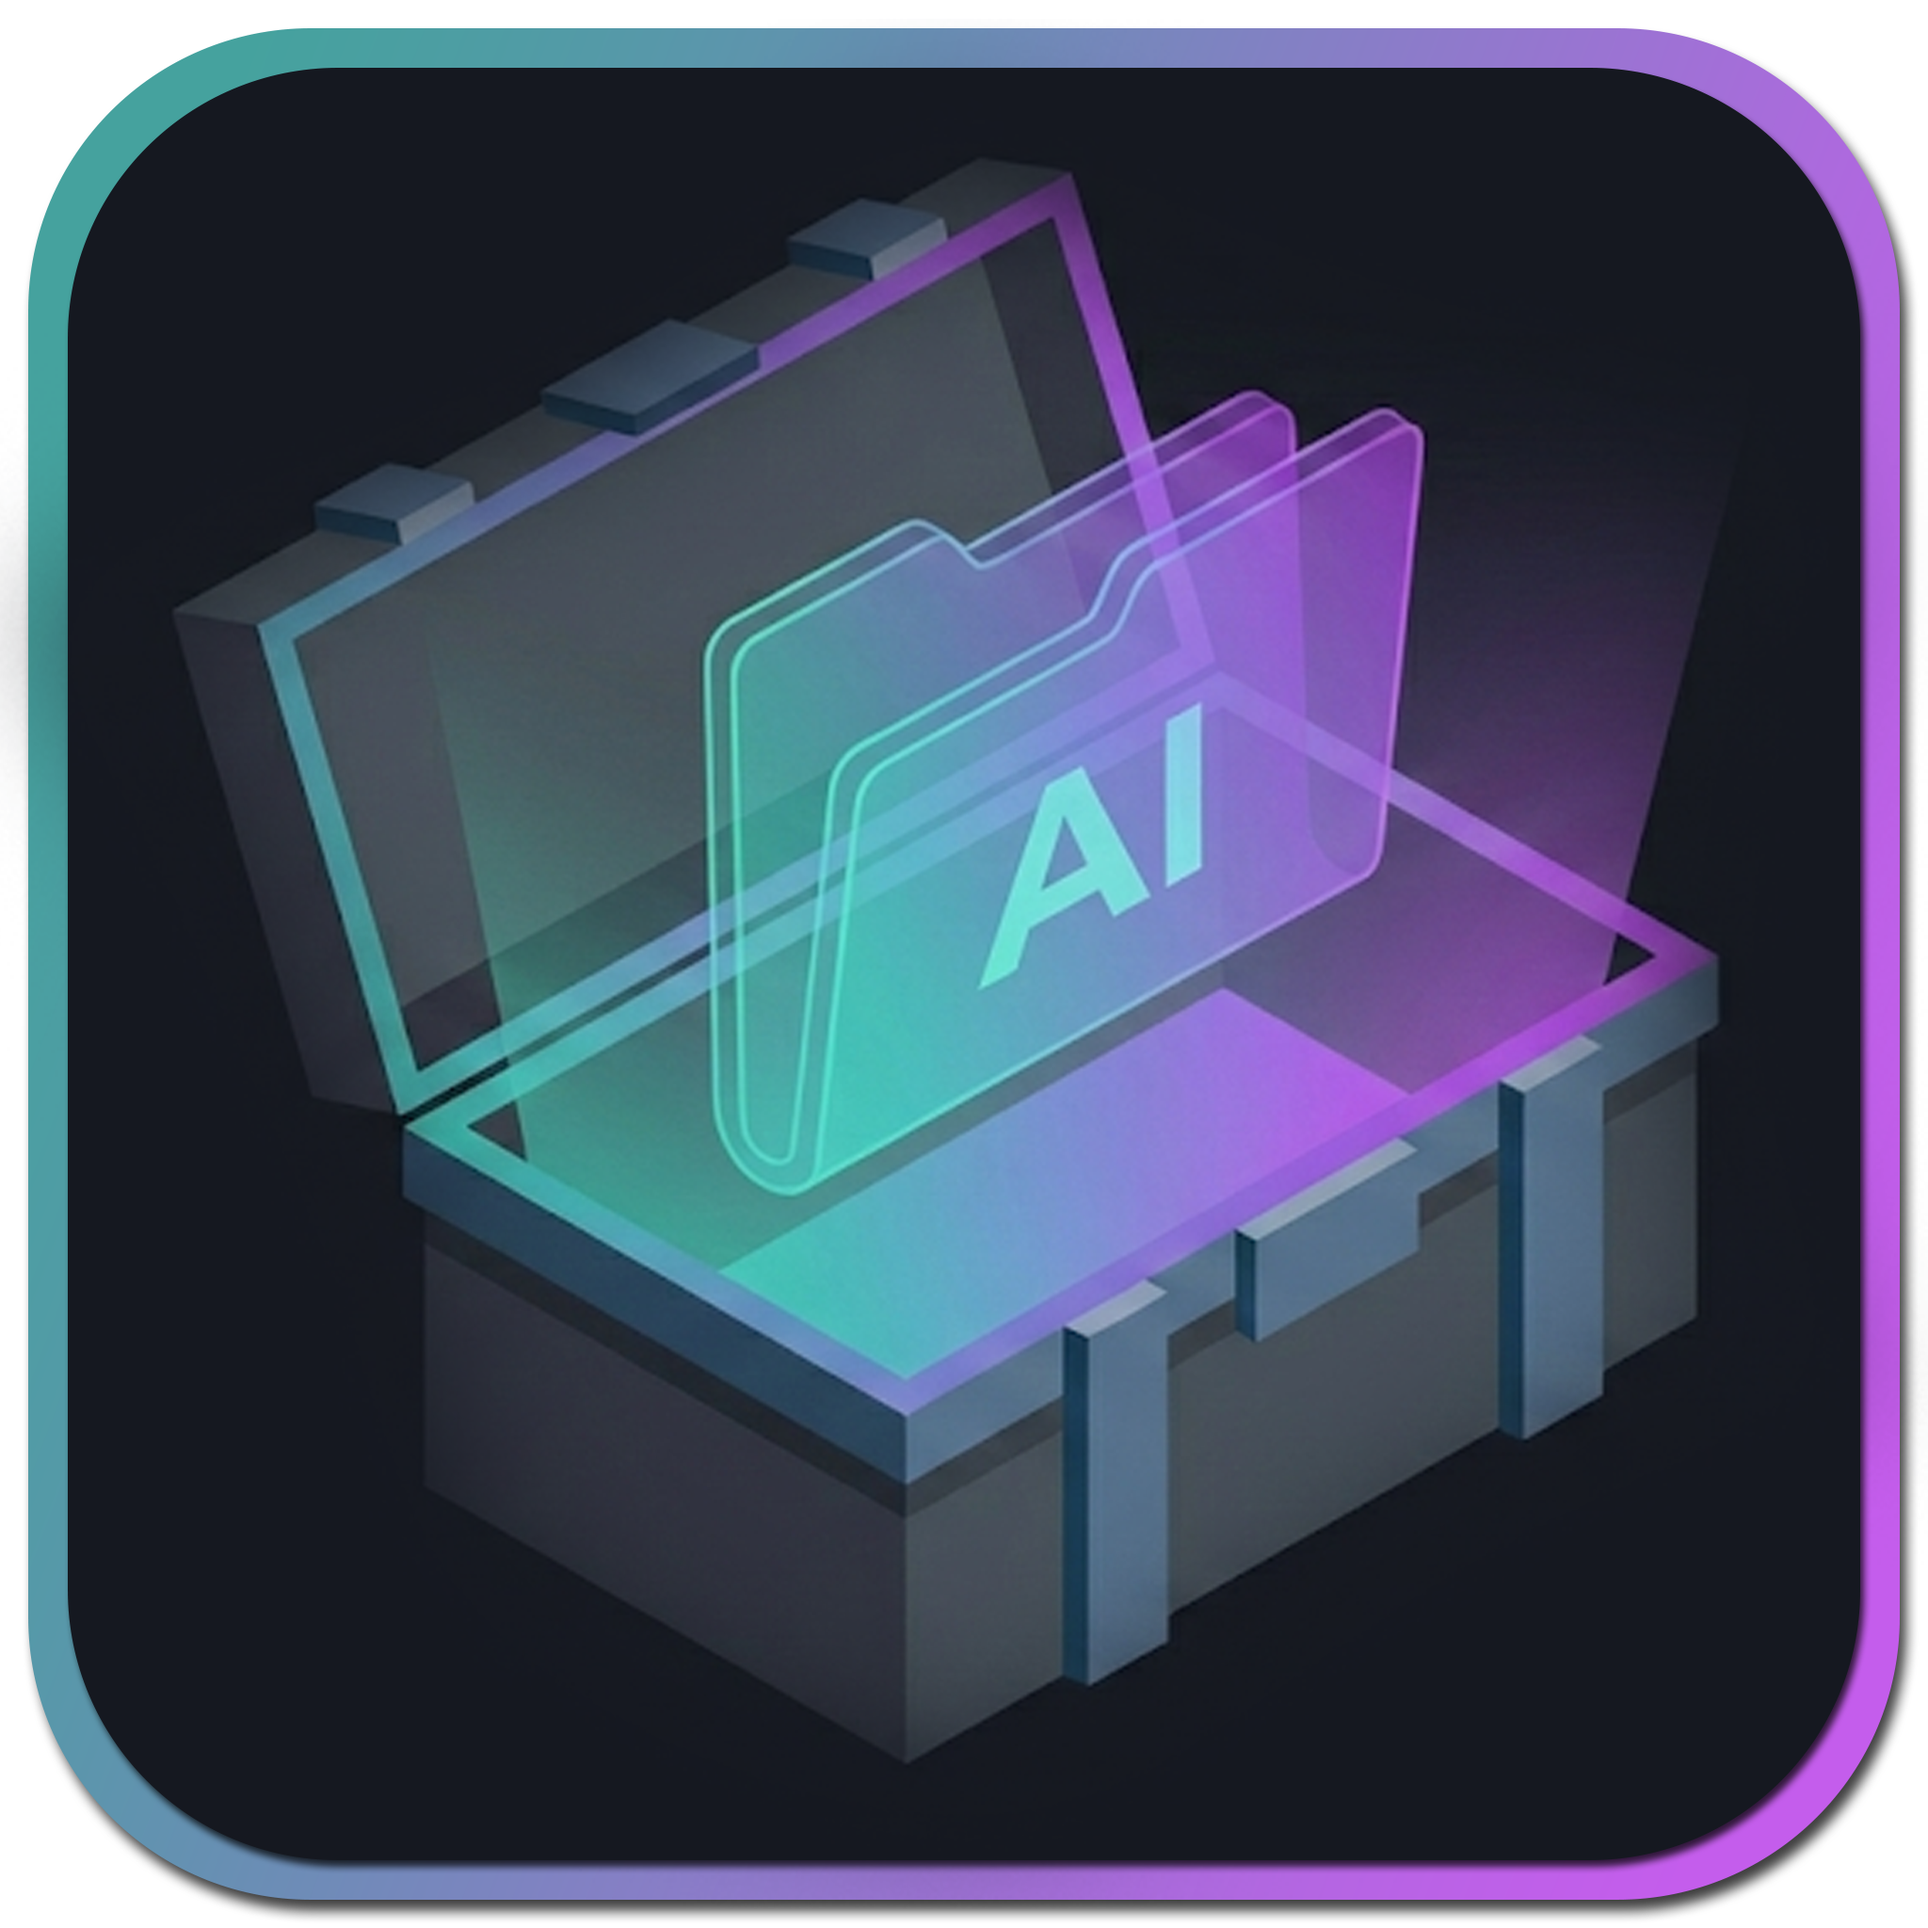
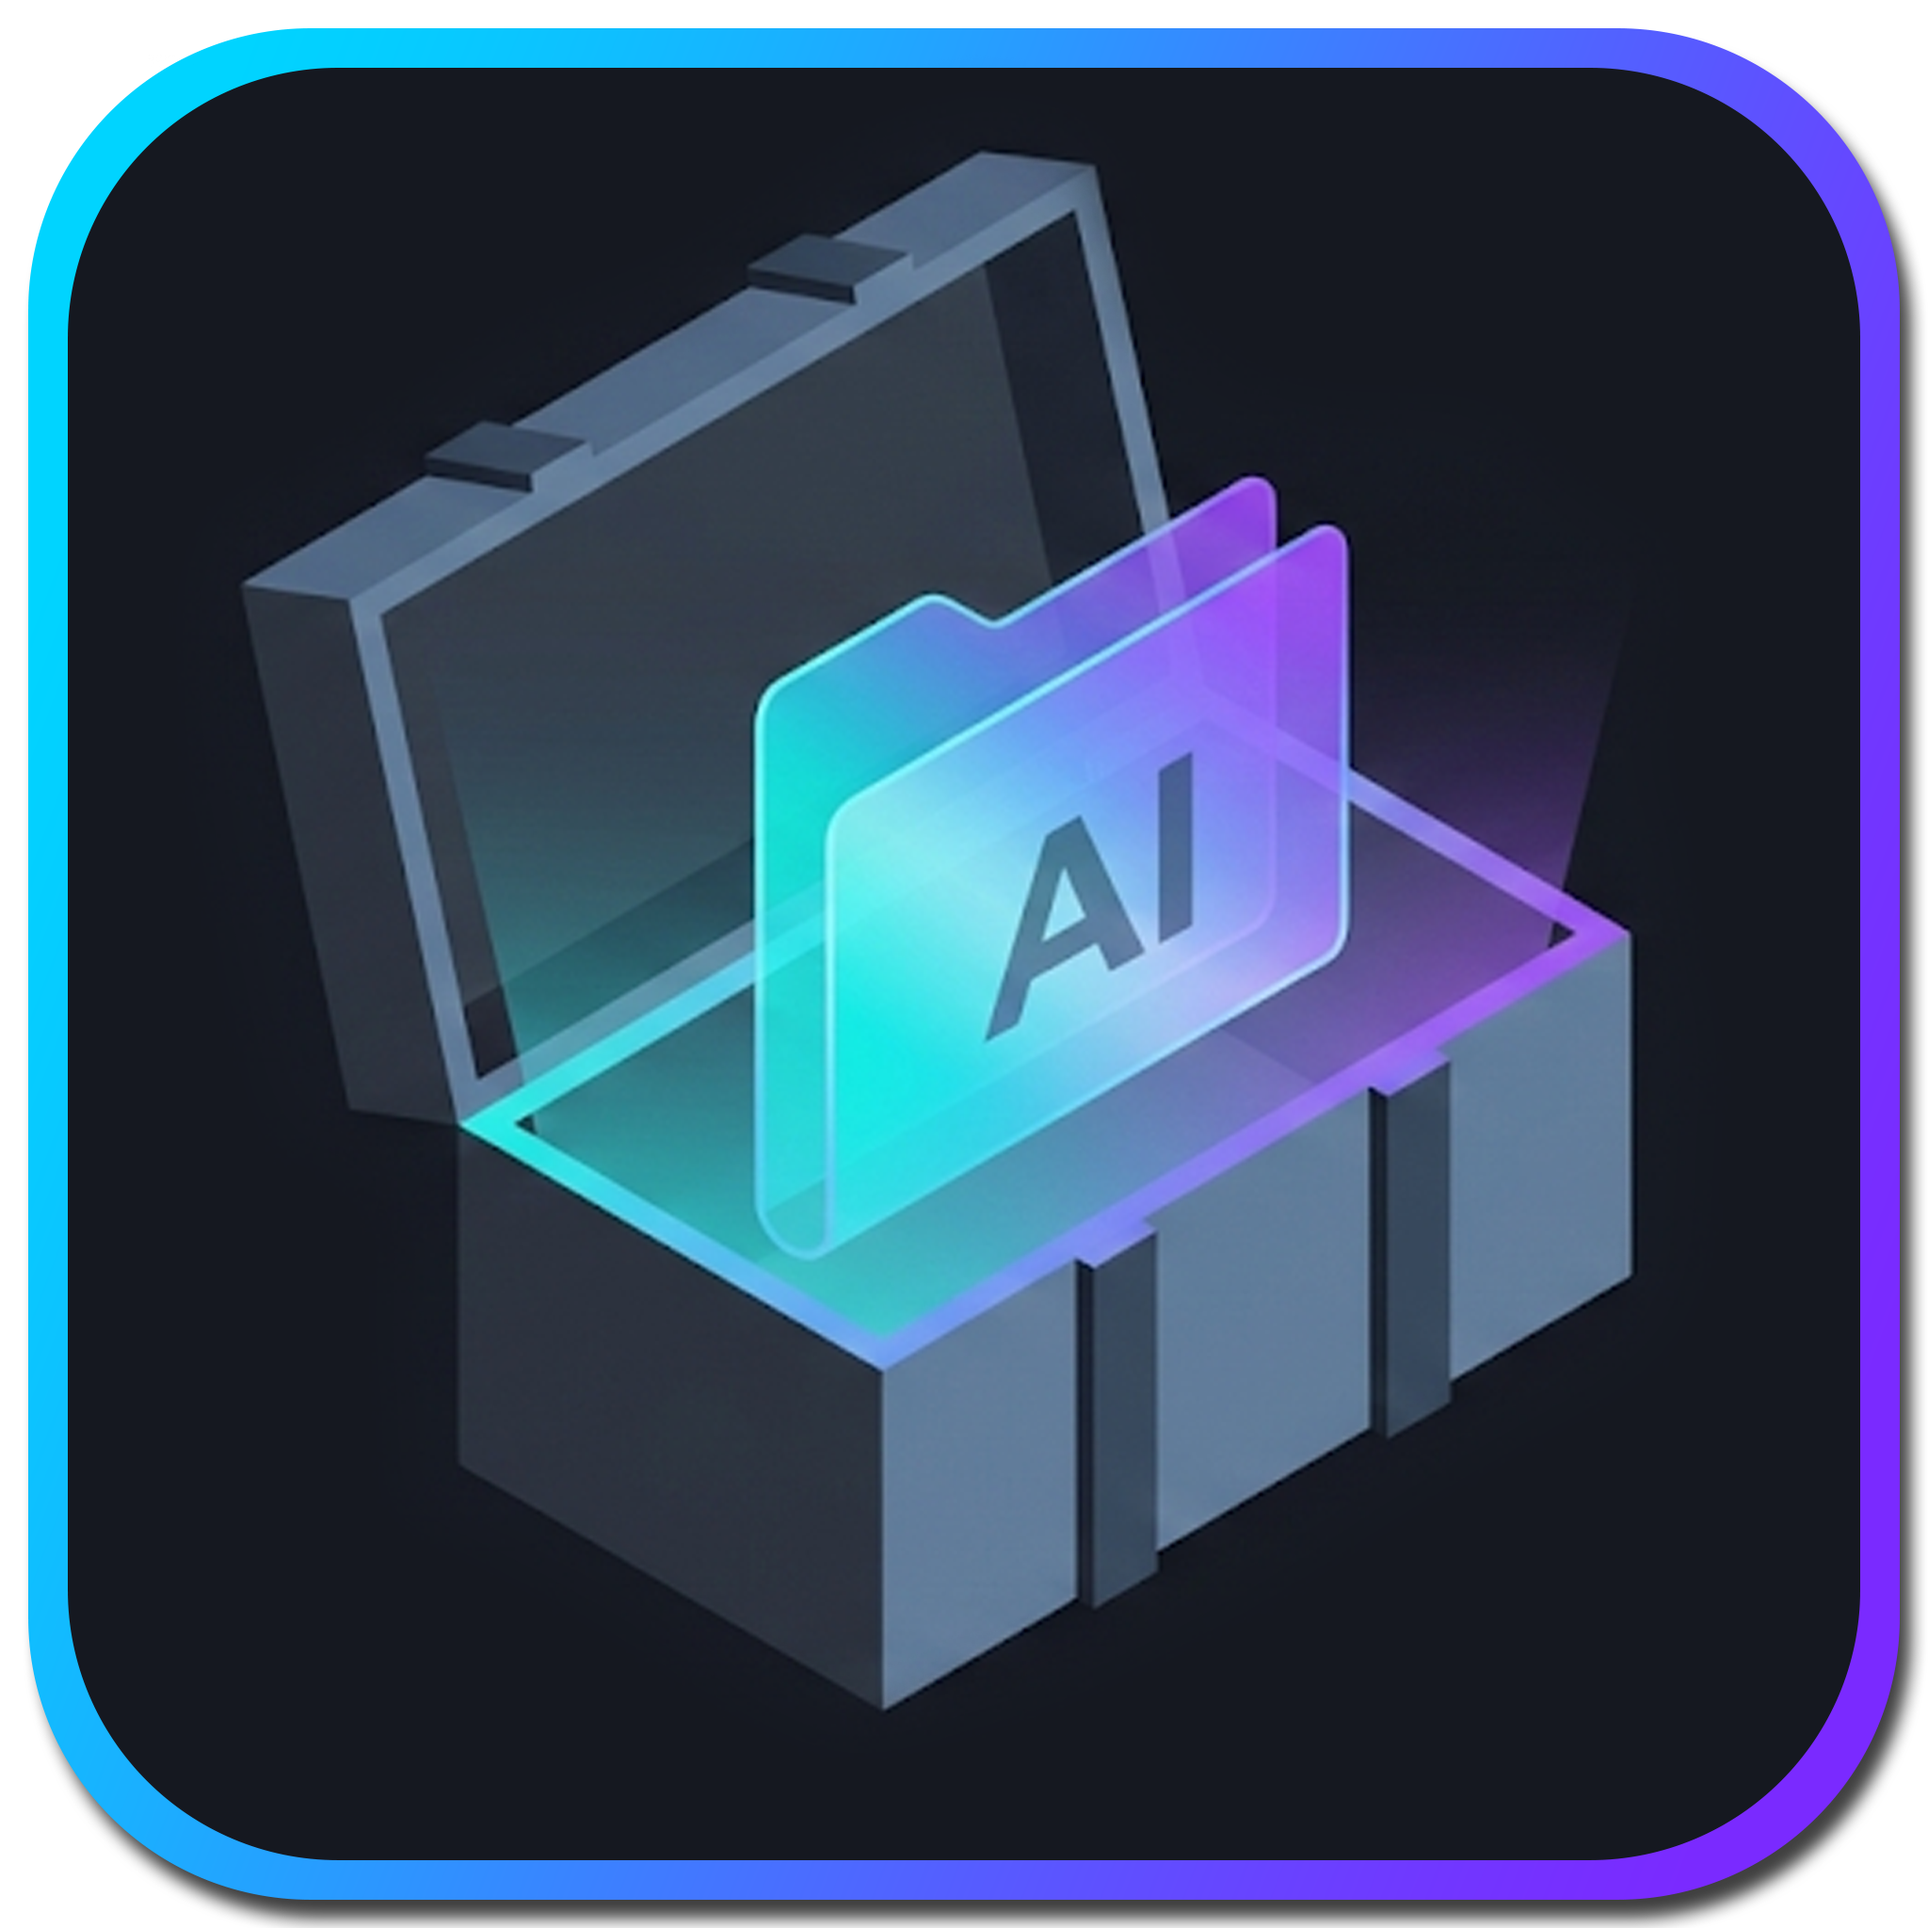
UI Tweaks

diff --git a/src/main/resources/dark-theme.css b/src/main/resources/dark-theme.css
@@ -22,7 +22,7 @@
     -app-red-warning: #ff4d4d;
 
     /* -------- Gradients -------- */
-    -app-grad-primary: linear-gradient(to right, #45a29e 0%, #c45dec 100%);
+    -app-grad-primary: linear-gradient(to right, #00d4ff 0%, #7a2aff 100%);
     -app-grad-hover: linear-gradient(to right, #66fcf1 0%, #d870ff 100%);
     -app-grad-text: linear-gradient(to right, #00d4ff 0%, #7a2aff 100%);
 

diff --git a/src/main/java/com/nilsson/imagetoolbox/ui/views/MetadataSidebar.java b/src/main/java/com/nilsson/imagetoolbox/ui/views/MetadataSidebar.java
@@ -10,6 +10,7 @@ import javafx.scene.input.Clipboard;
 import javafx.scene.input.ClipboardContent;
 import javafx.scene.layout.*;
 import javafx.stage.Modality;
+import javafx.stage.PopupWindow;
 import javafx.stage.Stage;
 import javafx.stage.StageStyle;
 import org.kordamp.ikonli.javafx.FontIcon;
@@ -102,7 +103,7 @@ public class MetadataSidebar extends VBox {
 
         Button openFileBtn = createLargeIconButton("fa-folder-open:16:white", "Open Location", e -> openFileLocation(currentFile));
         Button rawDataBtn = createLargeIconButton("fa-code:16:white", "Raw Metadata", e -> showRawMetadata());
-        Button closeBtn = createLargeIconButton("fa-close:16:white", "Close Panel", e -> actionHandler.onClose());
+        Button closeBtn = createLargeIconButton("fa-arrow-right:16:white", "Close Panel", e -> actionHandler.onClose());
 
         Region spacer = new Region();
         HBox.setHgrow(spacer, Priority.ALWAYS);
@@ -375,20 +376,33 @@ public class MetadataSidebar extends VBox {
         lorasFlow.getChildren().add(tag);
     }
 
-    private Button createLargeIconButton(String icon, String tooltip, javafx.event.EventHandler<javafx.event.ActionEvent> action) {
+    private Button createLargeIconButton(String icon, String tooltipText, javafx.event.EventHandler<javafx.event.ActionEvent> action) {
         Button btn = new Button();
         btn.setGraphic(new FontIcon(icon));
         btn.getStyleClass().add("icon-button-large");
-        if (tooltip != null) btn.setTooltip(new Tooltip(tooltip));
+        if (tooltipText != null) {
+            Tooltip tooltip = new Tooltip(tooltipText);
+            tooltip.setAnchorLocation(PopupWindow.AnchorLocation.CONTENT_BOTTOM_LEFT);
+
+            btn.setOnMouseEntered(e -> {
+                tooltip.show(btn, e.getScreenX(), e.getScreenY() - 15);
+            });
+            btn.setOnMouseExited(e -> tooltip.hide());
+        }
         btn.setOnAction(action);
         return btn;
     }
 
-    private Button createIconButton(String icon, String tooltip, javafx.event.EventHandler<javafx.event.ActionEvent> action) {
+    private Button createIconButton(String icon, String tooltipText, javafx.event.EventHandler<javafx.event.ActionEvent> action) {
         Button btn = new Button();
         btn.setGraphic(new FontIcon(icon));
         btn.getStyleClass().add("icon-button");
-        if (tooltip != null) btn.setTooltip(new Tooltip(tooltip));
+        if (tooltipText != null) {
+            Tooltip tooltip = new Tooltip(tooltipText);
+            tooltip.setAnchorLocation(PopupWindow.AnchorLocation.CONTENT_BOTTOM_LEFT);
+            btn.setOnMouseEntered(e -> tooltip.show(btn, e.getScreenX(), e.getScreenY() - 15));
+            btn.setOnMouseExited(e -> tooltip.hide());
+        }
         btn.setOnAction(action);
         return btn;
     }
@@ -401,10 +415,17 @@ public class MetadataSidebar extends VBox {
         lbl.getStyleClass().add("section-label");
         Region spacer = new Region();
         HBox.setHgrow(spacer, Priority.ALWAYS);
+
         Button copyBtn = new Button();
-        copyBtn.setGraphic(new FontIcon("fa-copy:12:#aaaaaa"));
+        copyBtn.setGraphic(new FontIcon("fa-copy:14:#aaaaaa")); // Size 14
         copyBtn.getStyleClass().add("icon-button-small");
-        copyBtn.setTooltip(new Tooltip("Copy Text"));
+
+        // Manual tooltip "Above" logic
+        Tooltip tooltip = new Tooltip("Copy Text");
+        tooltip.setAnchorLocation(PopupWindow.AnchorLocation.CONTENT_BOTTOM_LEFT);
+        copyBtn.setOnMouseEntered(e -> tooltip.show(copyBtn, e.getScreenX(), e.getScreenY() - 15));
+        copyBtn.setOnMouseExited(e -> tooltip.hide());
+
         TextArea area = new TextArea();
         area.getStyleClass().add("prompt-block");
         area.setWrapText(true);

diff --git a/src/main/java/com/nilsson/imagetoolbox/ui/views/ImageBrowserView.java b/src/main/java/com/nilsson/imagetoolbox/ui/views/ImageBrowserView.java
@@ -140,6 +140,7 @@ public class ImageBrowserView extends StackPane implements JavaView<ImageBrowser
         refreshNav();
 
         viewModel.getFilteredFiles().addListener((ListChangeListener<File>) c -> {
+            File previousFile = (currentIndex >= 0 && currentIndex < currentFiles.size()) ? currentFiles.get(currentIndex) : null;
             this.currentFiles = new ArrayList<>(viewModel.getFilteredFiles());
             filmstripView.setFiles(currentFiles);
 
@@ -149,8 +150,12 @@ public class ImageBrowserView extends StackPane implements JavaView<ImageBrowser
                 if (currentFiles.isEmpty()) {
                     singleImageView.setImage(null);
                     viewModel.updateSelection(Collections.emptyList());
-                } else if (!currentFiles.contains(getCurrentFile())) {
-                    loadImage(0);
+                } else {
+                    if (previousFile != null && currentFiles.contains(previousFile)) {
+                        currentIndex = currentFiles.indexOf(previousFile);
+                    } else {
+                        loadImage(0);
+                    }
                 }
             }
         });
